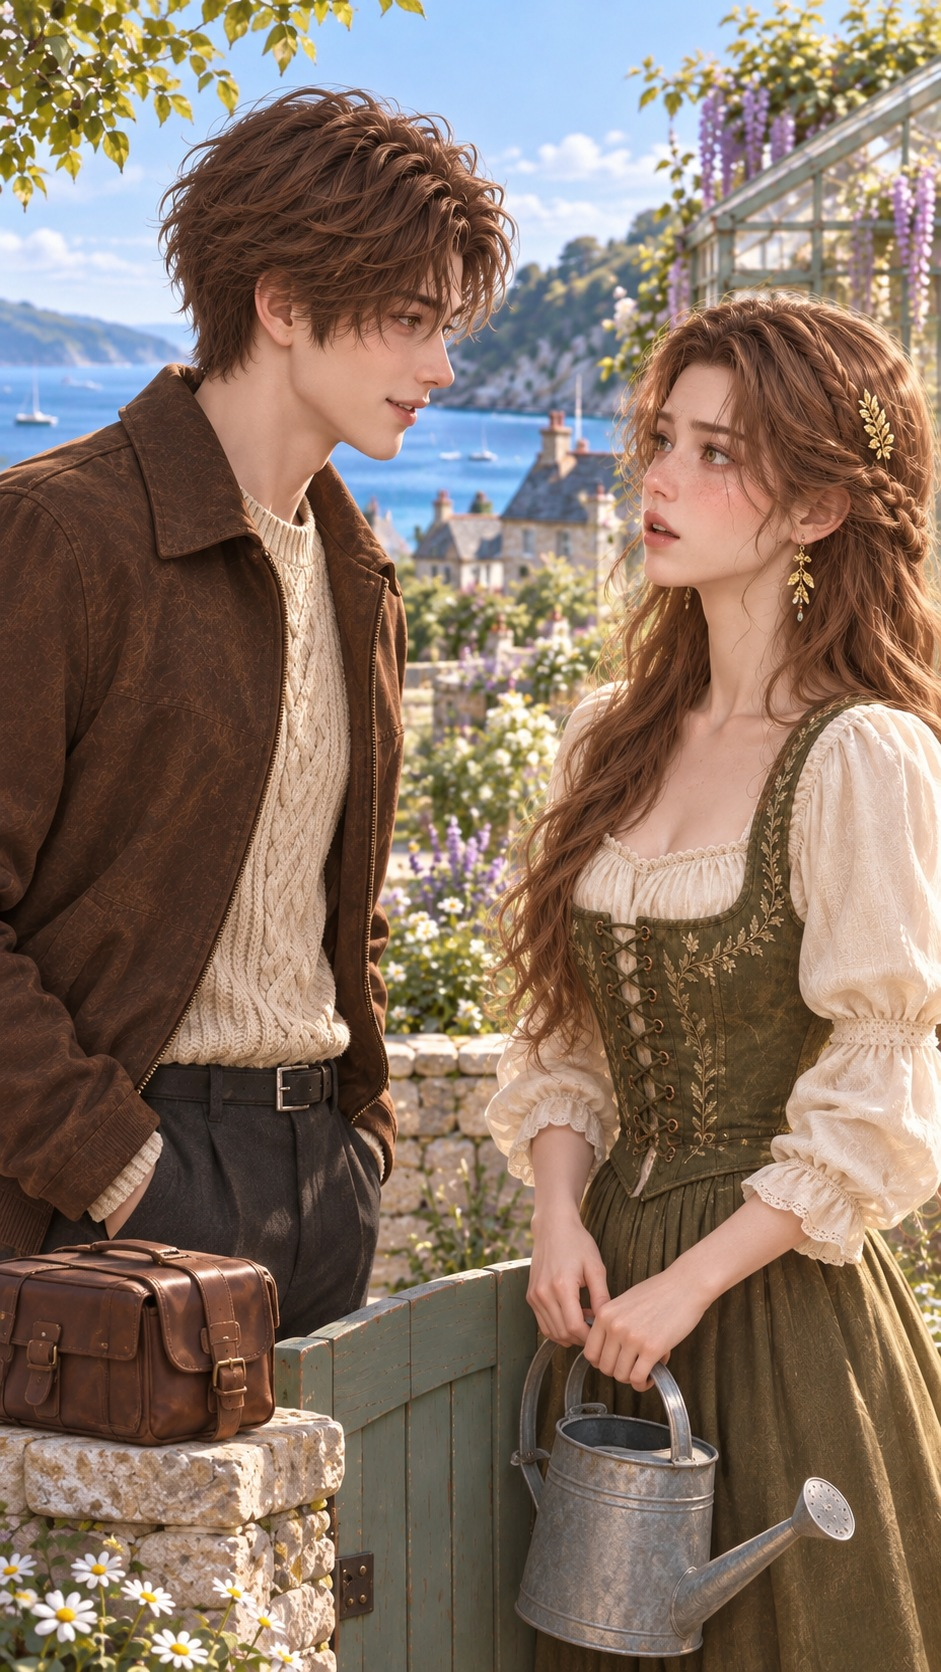
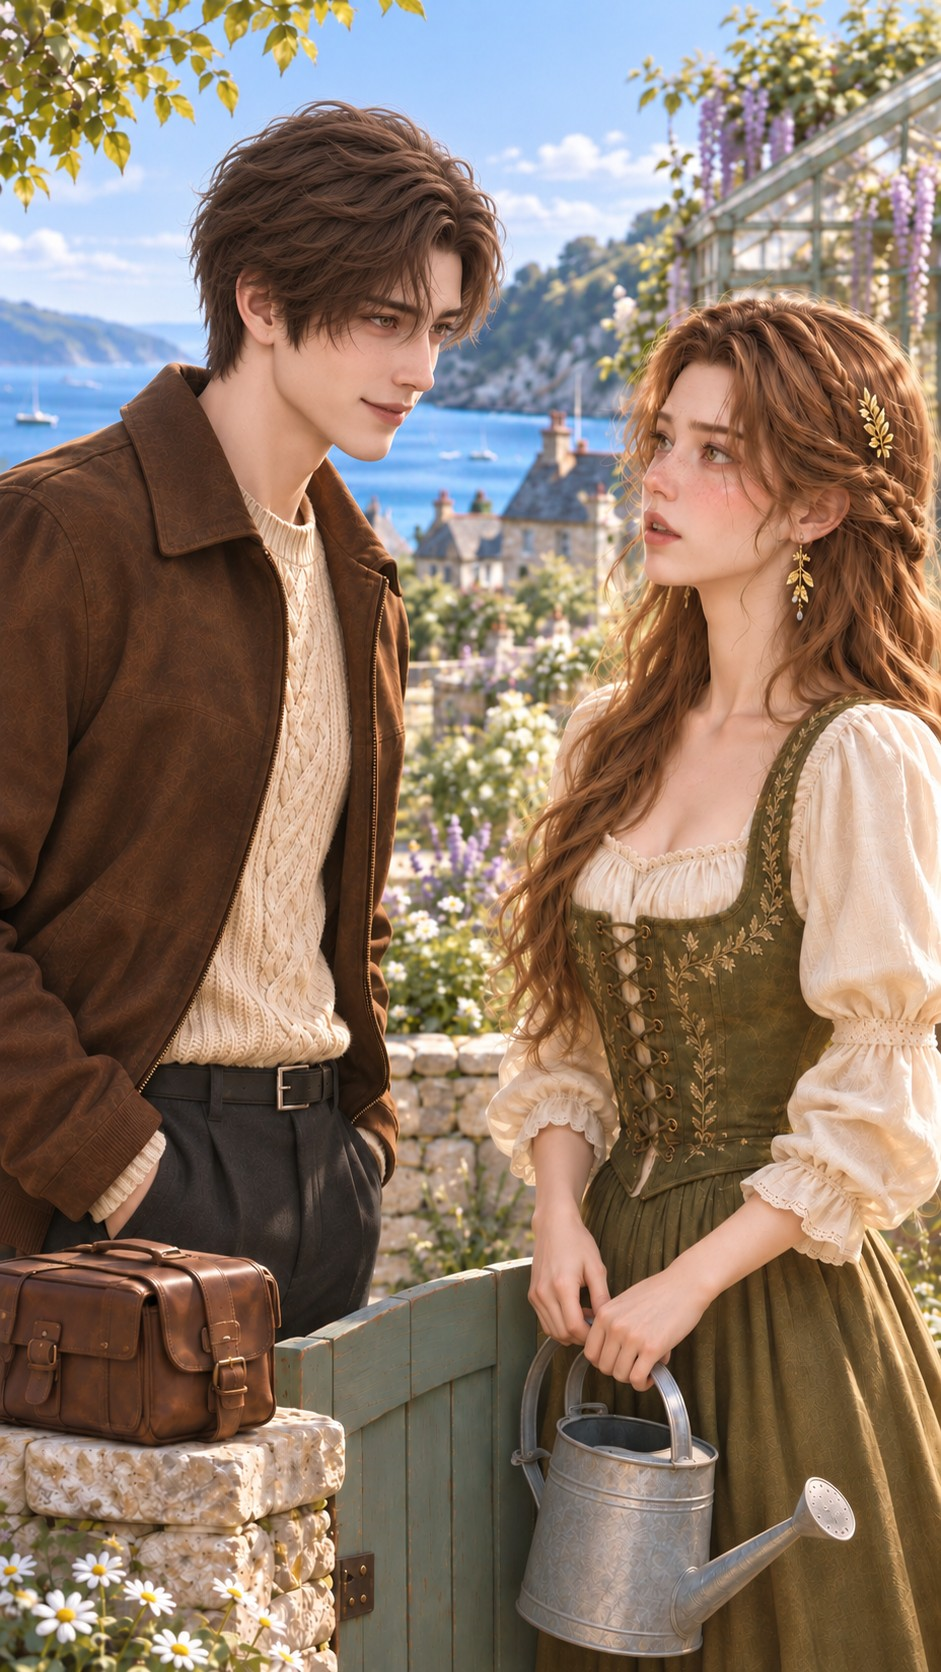
封面男主按定妆重画（三分之四侧脸，脸和发型对齐 rowan 参考）

diff --git a/docs/index.html b/docs/index.html
@@ -182,7 +182,7 @@ applyLang(); $('modeMeta').textContent = MODE === 'auto' ? 'Auto length' : MODE.
 const esc = s => String(s == null ? '' : s).replace(/[&<>"]/g, c => ({'&': '&amp;', '<': '&lt;', '>': '&gt;', '"': '&quot;'}[c]));
 const setMode = m => { document.body.classList.remove('start', 'choosing', 'playing', 'waiting'); document.body.classList.add(m); };
 setMode('start');
-$('stage').style.background = '#000 url(media/poster.jpg?v=1) center/cover';
+$('stage').style.background = '#000 url(media/poster.jpg?v=2) center/cover';
 const chip = $('liveChip'); const setChip = h => { chip.innerHTML = h; chip.hidden = !h; };
 function toast(t){ const el = $('toast'); el.textContent = t; el.hidden = false; clearTimeout(toast.t); toast.t = setTimeout(() => el.hidden = true, 2200); }
 const subs = $('subs');

diff --git a/cover_regen.py b/cover_regen.py
@@ -1,0 +1,24 @@
+"""封面男主一致性重做（Vicky 11-03：封面男主和定妆不一致）：保留原封面构图、她和场景，只按 rowan.png 重画他的脸和头发。
+用法：python3 cover_regen.py → opening-v1/frames/COVER_a.png、COVER_b.png（gpt-image-2/edit，复用 opening-v1/gen.py）"""
+import sys
+from pathlib import Path
+from concurrent.futures import ThreadPoolExecutor
+D = Path(__file__).resolve().parent; O = D / 'opening-v1'
+REF = Path('/Users/vicky/Interactive storyline/projects/meet-me-again-deepspace-20261013/storyboard-v1/references')
+WANT = sys.argv[1:]; sys.argv = ['gen.py', 'noop']; G = {'__file__': str(O / 'gen.py'), '__name__': 'genlib'}
+exec(open(O / 'gen.py').read().split("if __name__ == '__main__':")[0], G)
+KEEP = ('Image 1 is the finished cover: keep it exactly — same composition and framing, same pose, same positions (him on the left, her on the right), same garden gate, stone pillar, leather bag, watering can, '
+        'flowers, greenhouse, sea and light, and keep HER completely unchanged (face, hair, braid, gold leaf pin and earrings, blouse, olive bodice and skirt). ')
+FACE = ('Change only the man: redraw his face and hair so he is clearly the same person as image 2 — long gentle face, defined jaw, straight nose, warm light-brown eyes under soft brows, '
+        'soft wavy chestnut-brown hair falling over the forehead (neat soft waves, not spiky, not windswept), clean-shaven, 27 years old, rendered in the same refined realistic 3D CG style as image 2, not anime, not a teenage boy. '
+        'Keep his expression: a small warm smile, looking at her. Keep his outfit exactly as in image 1: warm medium-brown suede zip jacket with collar, cream cable-knit sweater, dark trousers with black belt. '
+        'Refined 2.5D-leaning-3D romance game CG, warm clear light, full natural saturation. No text, no logo, no watermark. Only these two people.')
+TURN = ' Turn his head slightly toward the camera into a three-quarter view so his face is clearly visible with both eyes showing, still looking at her with a small warm smile; his body pose stays the same.'
+JOBS = {'COVER_c': [D / 'opening-v1/frames/COVER_b.png', REF / 'rowan.png', D / 'masters/he-upper.png'],
+        'COVER_a': [D / 'docs/media/poster.jpg', REF / 'rowan.png'],
+        'COVER_b': [D / 'docs/media/poster.jpg', REF / 'rowan.png', D / 'masters/he-upper.png']}
+def one(k):
+    extra = ' Image 3 is the same man in his outfit, for identity and style.' if len(JOBS[k]) > 2 else ''
+    return G['image'](k, [str(x) for x in JOBS[k]], KEEP + FACE + extra + (TURN if k == 'COVER_c' else ''))
+with ThreadPoolExecutor(2) as ex:
+    for r in ex.map(one, [k for k in (WANT or JOBS)]): print(*r, flush=True)
